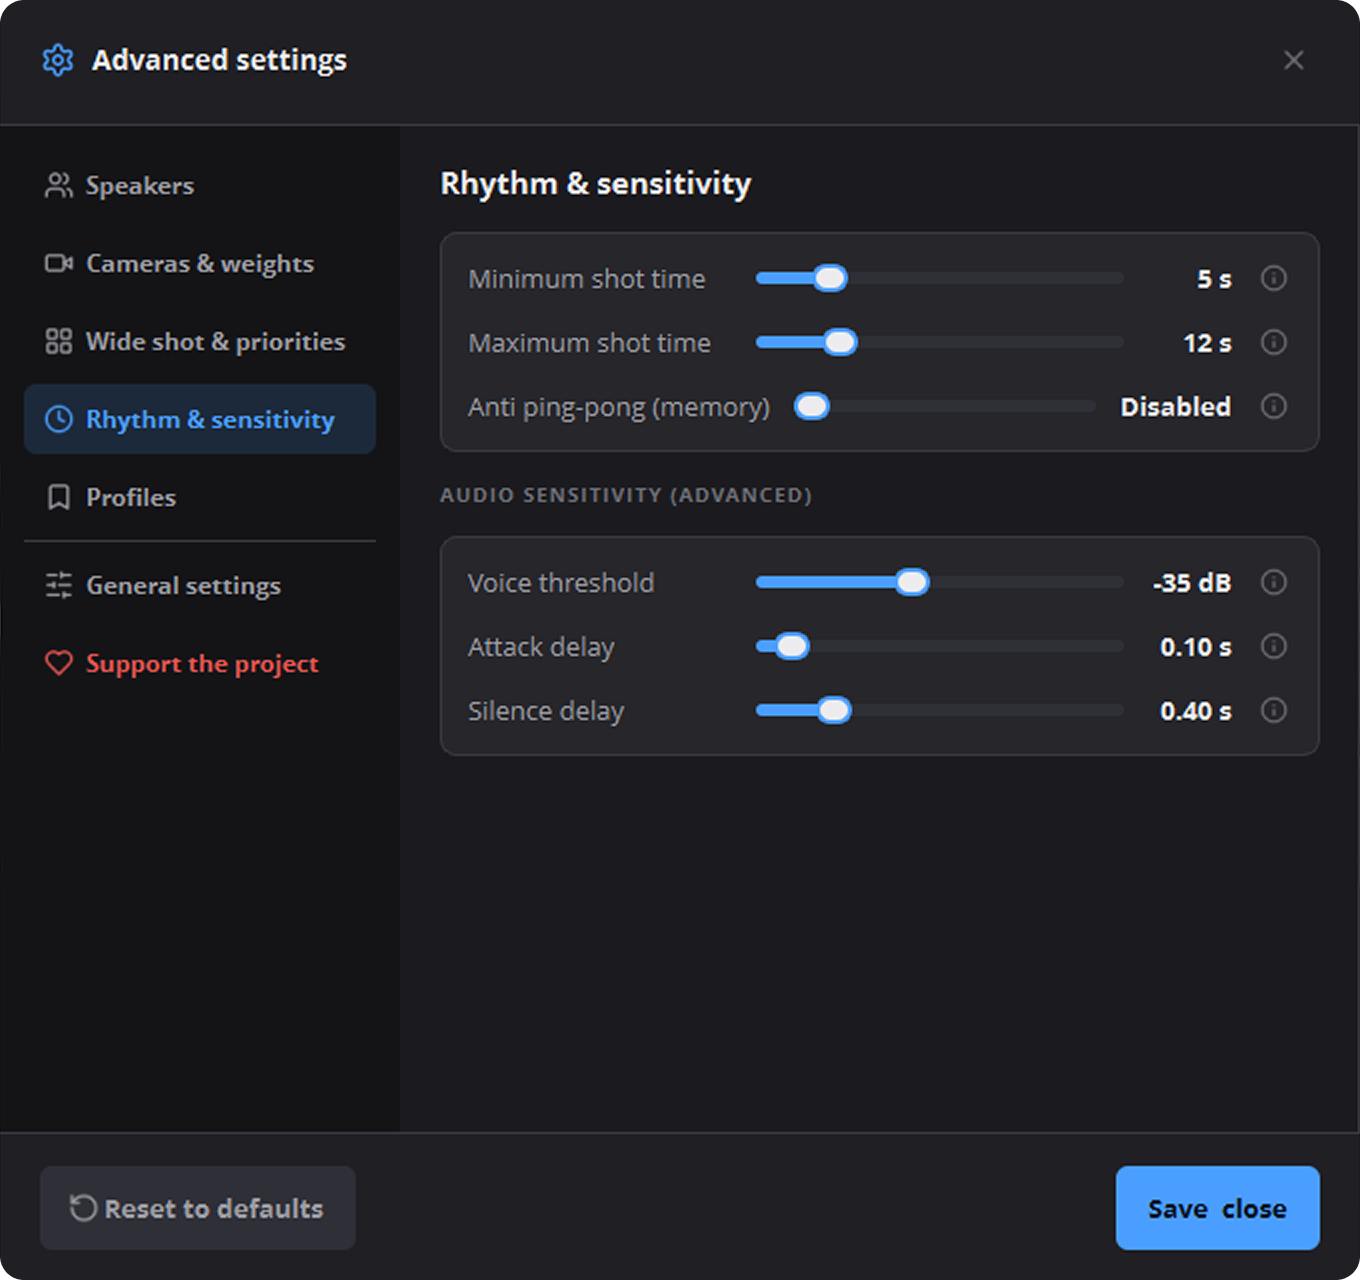
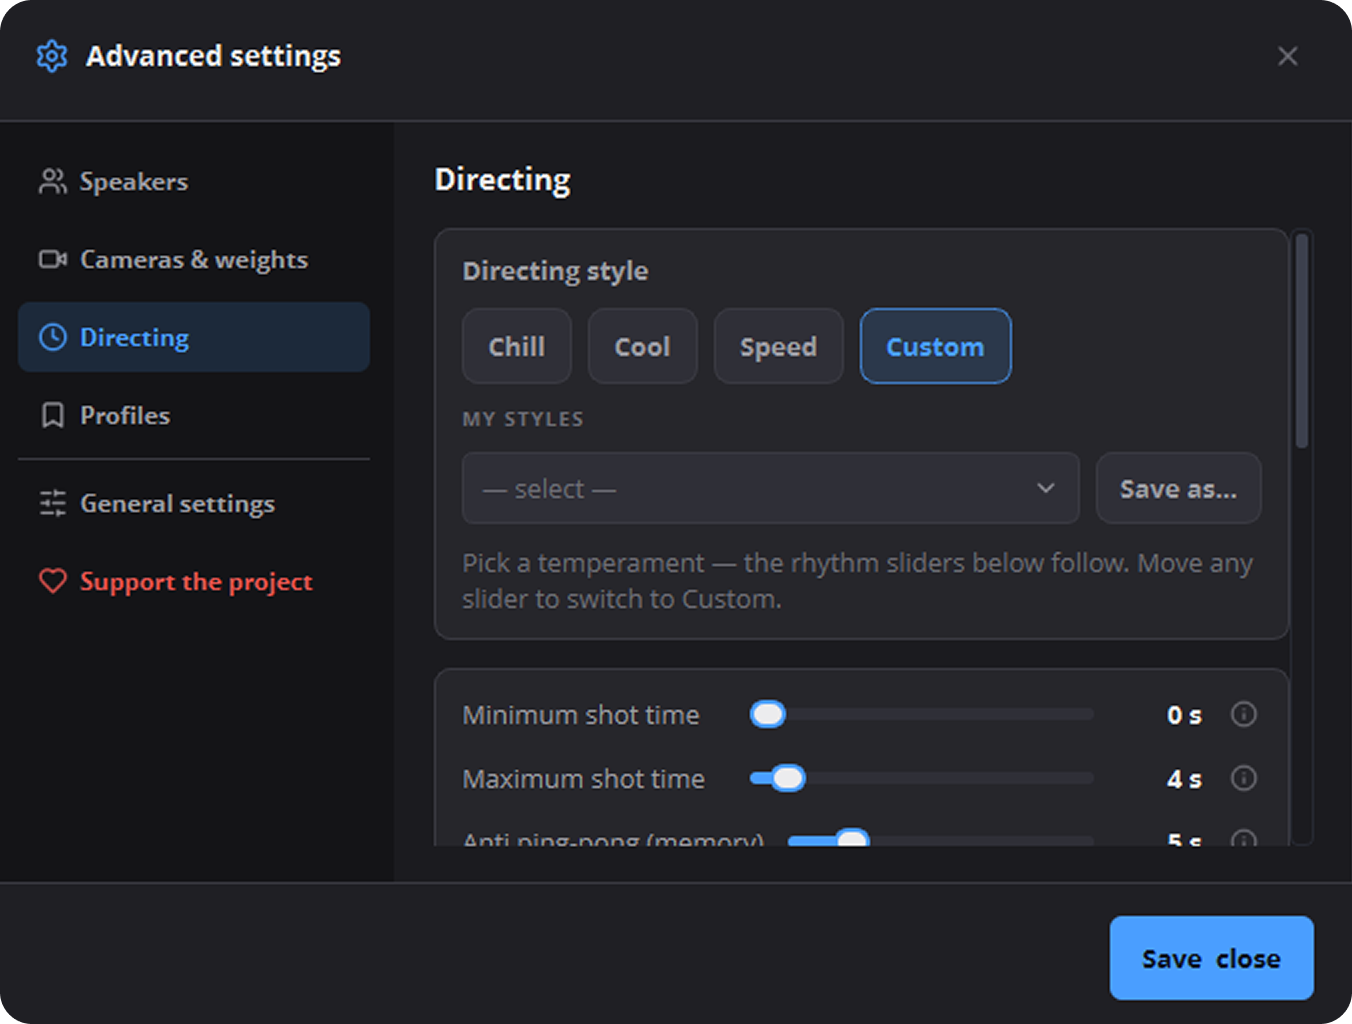
doc guide : captures 0.6.0 + tuto ecrans Realisation / Caler les seuils
CONTEXTE : mise a jour des guides facon tuto (captures fournies par David) apres la refonte assistant 0.6.0.

FICHIERS CLES : guide.{md,fr.md} ecrans 3 (Realisation : 2 captures repli/deplie + prose) et 4 (Caler les seuils : capture dock calibration) ; img assistant_realisation(.advanced).png + dock_calibration.png ajoutees ; dock.png + setting-rythm.png rafraichies ; assistant_4/5.png (obsoletes) supprimees.

COMPAT : none.

diff --git a/docs/guide.fr.md b/docs/guide.fr.md
@@ -106,24 +106,26 @@ Pour chaque personne, choisissez **quelles scènes** montrer quand elle parle, e
 
 ### Écran 3 — Réalisation
 
-Tout le réglage de **réalisation** sur un seul écran, volontairement simple :
+![Assistant — Réalisation (réglages repliés)](img/assistant_realisation.png)
+
+Tout le réglage de **réalisation** tient sur un seul écran, volontairement simple. Deux choses à faire ; le reste est rangé dans un tiroir.
 
 - **Plan large (vue de groupe)** : choisissez la scène de groupe. Un **conseil** vous invite fortement à en définir une — elle rend la réalisation bien plus vivante (Flowspire alterne avec la vue d'ensemble entre les prises de parole). Sans plan large, les coupes sont plus statiques.
-- **Style de réalisation** : choisissez un style **fourni** (Chill / Cool / Speed) ou l'un de **vos styles** enregistrés. Le style règle tout le tempérament d'un coup.
-- **Paramètres avancés de réalisation** *(repliés, « modifiables plus tard »)* : un **tiroir** qui déplie le tempo (temps mini/maxi, anti ping-pong, délai avant réaction au silence), les priorités quand **plusieurs** parlent / quand **personne** ne parle, et la **sensibilité**. Pas besoin d'y toucher pour démarrer — c'est exactement le même contenu que l'onglet **Réalisation** des Paramètres avancés (détail en section 6).
+- **Style de réalisation** : choisissez un style **fourni** (Chill / Cool / Speed) ou l'un de **vos styles** enregistrés. Le style règle **tout le tempérament d'un coup**.
 
-> La gestion de vos styles enregistrés (créer / renommer / supprimer) se fait dans les **Paramètres avancés** ; dans l'assistant, vous ne faites que **choisir** un style.
+C'est suffisant pour démarrer. Pour aller plus loin, dépliez **« Paramètres avancés de réalisation »** *(modifiables plus tard)* :
+
+![Assistant — Réalisation (tiroir avancé déplié)](img/assistant_realisation_advanced.png)
+
+Le tiroir révèle le **tempo** (temps mini/maxi, anti ping-pong, délai avant réaction au silence), les priorités **quand plusieurs parlent** / **quand personne ne parle**, et la **sensibilité**. C'est exactement le même contenu que l'onglet **Réalisation** des Paramètres avancés ([section 6](#6-tous-les-réglages-en-détail)) — choisir un style positionne tous ces curseurs pour vous, et bouger un curseur à la main bascule sur **« Perso »**.
+
+> La gestion de vos styles enregistrés (enregistrer / renommer / supprimer) se fait dans les **Paramètres avancés** ; dans l'assistant, vous ne faites que **choisir** un style.
 
 ### Écran 4 — Caler les seuils
 
-Un **pense-bête** : il n'y a rien à régler ici. Flowspire détecte qui parle grâce à un **seuil** par micro, et il sait le trouver **tout seul** en écoutant la voix.
+![Assistant — Caler les seuils](img/assistant_calibration.png)
 
-Une fois l'assistant terminé, sur le **dock** :
-
-1. Demandez à chaque invité de **parler** dans son micro.
-2. Lancez la **calibration automatique** — **par personne** (le bouton baguette sur chaque carte) ou **tous les seuils d'un coup**.
-
-À refaire si vous changez de **lieu** ou de **micro**.
+Un simple **pense-bête** : il n'y a **rien à régler ici**. Flowspire détecte qui parle grâce à un **seuil** par micro, et il sait le trouver **tout seul** en écoutant la voix. Vous le ferez en deux clics **plus tard, une fois l'assistant terminé, depuis le dock** — c'est détaillé en [section 4](#4-le-dock-en-direct). Pour l'instant, passez à la suite.
 
 ### Écran 5 — Résumé
 
@@ -146,7 +148,11 @@ Le dock est votre tableau de bord en temps réel :
 - **Le témoin « à l'antenne » (tally)** : un **trait rouge** apparaît à gauche de la scène réellement diffusée et **se déplace** quand la réalisation change de plan.
 - **Le plan large** figure dans la liste (sans vu-mètre), pour le voir s'allumer lui aussi.
 - **Cliquez une carte pour forcer son plan** : cliquer la carte d'un intervenant le passe **à l'antenne**, cliquer la carte du plan large bascule sur le **plan large** — un **forçage temporaire** (l'auto reprend après le temps mini), exactement comme un raccourci. Le **curseur de seuil** reste indépendant (il ne force pas).
-- **Calibrer les seuils automatiquement** : le **bouton baguette** sur chaque carte règle le seuil de la personne tout seul — parlez normalement, il trouve le bon niveau (entre votre silence et votre voix) puis le fige (pas de dérive). **Calibrer tous les seuils** (bouton dans l'en-tête SCÈNES) arme tout le monde d'un coup : une barre de progression montre qui est calé ; cliquez **Terminer** quand ça vous va. Fonctionne aussi avec un micro à noise gate (le seuil est placé proportionnellement dans l'écart, jamais collé au plancher).
+- **Calibrer les seuils automatiquement** : le **bouton baguette** sur chaque carte règle le seuil de la personne tout seul — parlez normalement, il trouve le bon niveau (entre votre silence et votre voix) puis le fige (pas de dérive). **Calibrer tous les seuils** (bouton dans l'en-tête SCÈNES) arme tout le monde d'un coup : une barre de progression montre qui est calé ; cliquez **Terminer** quand ça vous va. Fonctionne aussi avec un micro à noise gate (le seuil est placé proportionnellement dans l'écart, jamais collé au plancher). À refaire si vous changez de **lieu** ou de **micro**.
+
+Pendant la calibration, un **bandeau de progression** s'affiche (« calé X/N ») — cliquez **Terminer** une fois satisfait :
+
+![Le dock pendant la calibration automatique](img/dock_calibration.png)
 
 Vous pouvez aussi piloter via vos **scènes OBS** et vos **raccourcis** : le dock reste volontairement épuré.
 

diff --git a/docs/guide.md b/docs/guide.md
@@ -106,24 +106,26 @@ For each person, choose **which scenes** to show when they speak, and give each 
 
 ### Screen 3 — Directing
 
-All the **directing** settings on a single, deliberately simple screen:
+![Wizard — Directing (settings collapsed)](img/assistant_realisation.png)
+
+All the **directing** settings fit on a single, deliberately simple screen. Two things to do; the rest is tucked into a drawer.
 
 - **Wide shot (group view)**: pick the group scene. A **tip** strongly encourages you to set one — it makes directing much livelier (Flowspire alternates with the group view between turns). Without a wide shot, cutting is more static.
-- **Directing style**: pick a **built-in** style (Chill / Cool / Speed) or one of **your saved** styles. The style sets the whole temperament at once.
-- **Advanced directing settings** *(collapsed, "editable later")*: a **drawer** that unfolds the tempo (min/max shot time, anti ping-pong, silence reaction delay), the priorities when **several** speak / when **nobody** speaks, and the **sensitivity**. No need to touch it to get started — it's the exact same content as the **Directing** tab in the Advanced settings (details in section 6).
+- **Directing style**: pick a **built-in** style (Chill / Cool / Speed) or one of **your saved** styles. The style sets the **whole temperament at once**.
 
-> Managing your saved styles (create / rename / delete) is done in the **Advanced settings**; in the wizard, you only **pick** a style.
+That's enough to get going. To go further, expand **"Advanced directing settings"** *(editable later)*:
+
+![Wizard — Directing (advanced drawer expanded)](img/assistant_realisation_advanced.png)
+
+The drawer reveals the **tempo** (min/max shot time, anti ping-pong, silence reaction delay), the priorities **when several speak** / **when nobody speaks**, and the **sensitivity**. It's the exact same content as the **Directing** tab in the Advanced settings ([section 6](#6-every-setting-in-detail)) — picking a style positions all those sliders for you, and moving any slider by hand switches to **"Custom"**.
+
+> Managing your saved styles (save / rename / delete) is done in the **Advanced settings**; in the wizard, you only **pick** a style.
 
 ### Screen 4 — Calibrate the thresholds
 
-A **reminder**: there's nothing to set here. Flowspire detects who is speaking via a per-mic **threshold**, and it can find it **on its own** by listening to the voice.
+![Wizard — Calibrate the thresholds](img/assistant_calibration.png)
 
-Once the wizard is done, on the **dock**:
-
-1. Ask each guest to **speak** into their mic.
-2. Start the **auto-calibration** — **per person** (the wand button on each card) or **all thresholds at once**.
-
-Redo it whenever you change **room** or **microphone**.
+Just a **reminder**: there's **nothing to set here**. Flowspire detects who is speaking via a per-mic **threshold**, and it finds it **on its own** by listening to the voice. You'll do it in two clicks **later, once the wizard is done, from the dock** — see [section 4](#4-the-live-dock). For now, move on.
 
 ### Screen 5 — Summary
 
@@ -146,7 +148,11 @@ The dock is your real-time dashboard:
 - **The "on-air" indicator (tally)**: a **red bar** appears to the left of the scene actually being broadcast and **moves** when the directing changes shot.
 - **The wide shot** appears in the list (without an audio meter), so you can see it light up too.
 - **Click a card to force that shot**: clicking a speaker's card puts **them** on air, clicking the wide-shot card switches to the **wide shot** — a **temporary force** (auto resumes after the minimum time), just like a hotkey. Dragging the **threshold slider** stays independent (it doesn't force).
-- **Auto-calibrate thresholds**: the **wand button** on each card sets that person's threshold automatically — speak normally and it finds the right level (between your silence and your voice), then freezes (no drift). **Calibrate all thresholds** (button in the SCENES header) arms everyone at once: a progress bar shows who's done; click **Finish** when you're happy. Works with a noise-gated mic too (the level is placed proportionally in the gap, never glued to the floor).
+- **Auto-calibrate thresholds**: the **wand button** on each card sets that person's threshold automatically — speak normally and it finds the right level (between your silence and your voice), then freezes (no drift). **Calibrate all thresholds** (button in the SCENES header) arms everyone at once: a progress bar shows who's done; click **Finish** when you're happy. Works with a noise-gated mic too (the level is placed proportionally in the gap, never glued to the floor). Redo it whenever you change **room** or **microphone**.
+
+During calibration, a **progress banner** appears ("calibrated X/N") — click **Finish** when you're happy:
+
+![The dock during auto-calibration](img/dock_calibration.png)
 
 You can also drive it through your **OBS scenes** and your **hotkeys**: the dock stays deliberately uncluttered.
 